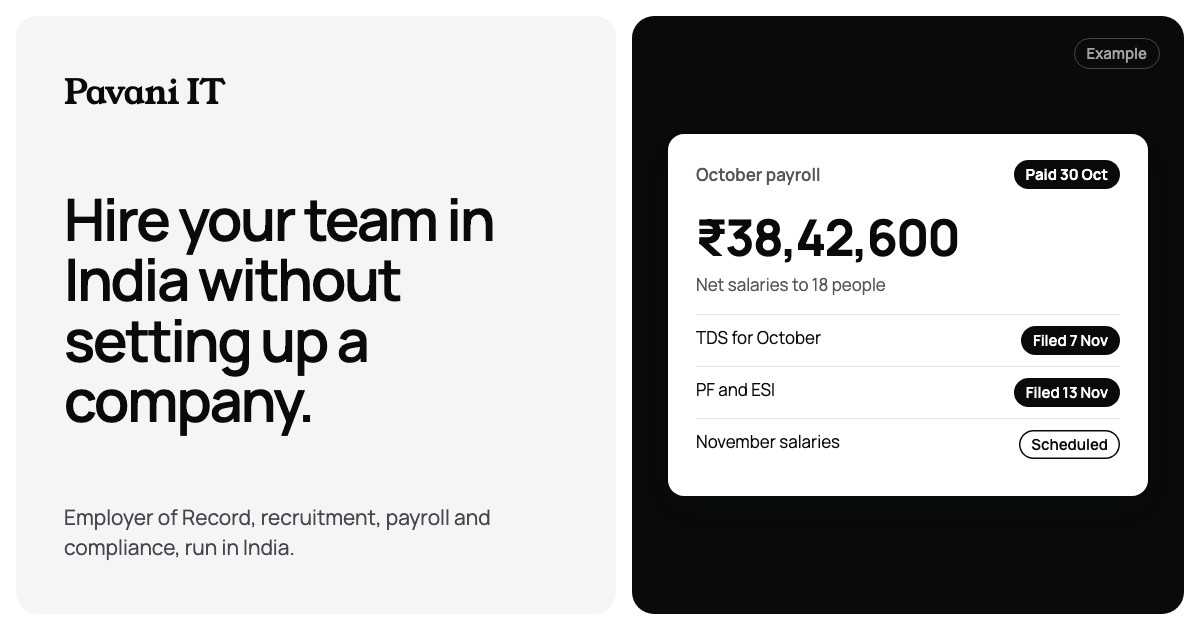
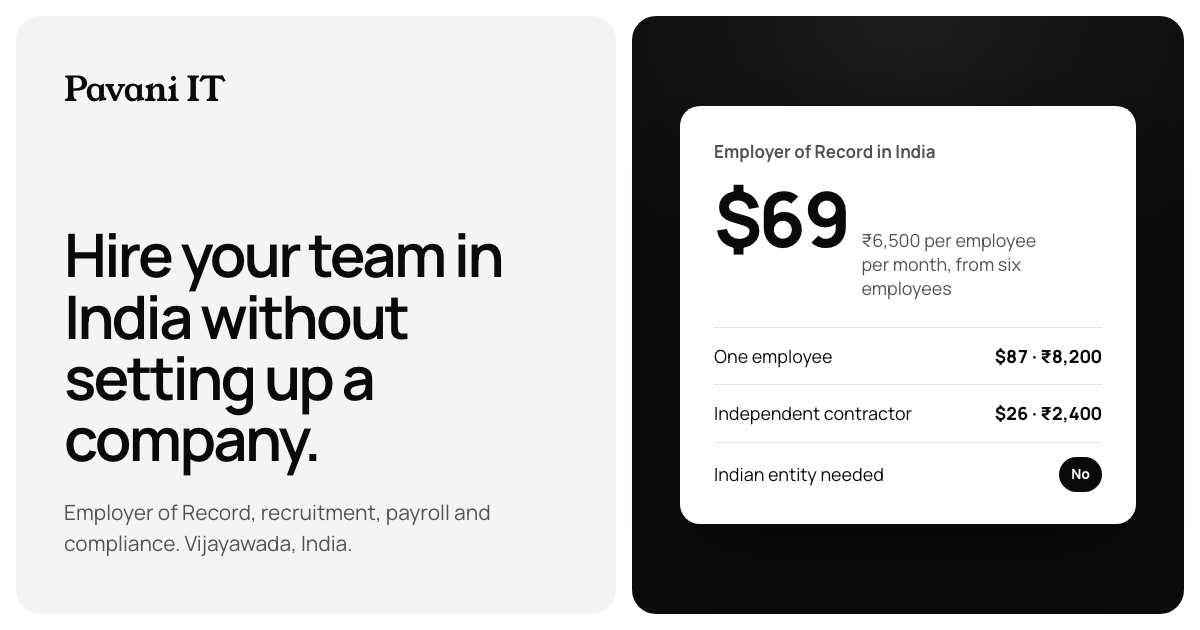
Launch round: link-preview image on every page, real-price sharing image, tighter descriptions

diff --git a/src/app/page.tsx b/src/app/page.tsx
@@ -8,18 +8,18 @@ import PriceCard from "@/components/PriceCard";
 import { ComparisonTable } from "@/components/EorTables";
 import { ArrowText, CtaBand, FaqSection, JsonLd, MoreLink, V, Words } from "@/components/bits";
 import { faqSchema } from "@/content/schema";
-import { eorPlanCards, eorPlans, howWeWork } from "@/content/site";
+import { eorPlanCards, eorPlans, howWeWork, ogImage } from "@/content/site";
 import { handoff, homeFaq, stageLinkLabel, stages } from "@/content/stages";
 
 export const metadata: Metadata = {
   title: "Employer of Record in India | Pavani IT",
-  description:
-    "Hire full-time employees in India without an Indian entity. Pavani IT recruits, employs, pays and trains your team under Indian law, with payroll and compliance run in-house.",
+  description: `Hire full-time employees in India without an Indian entity. Pavani IT is your Employer of Record from ${eorPlans[1].usd} a month, with payroll and compliance included.`,
   alternates: { canonical: "/" },
   openGraph: {
     title: "Hire your team in India without setting up a company",
     description: "Pavani IT is an Indian Employer of Record: contracts, payroll, PF, ESI, tax and exits handled under Indian law.",
     url: "/",
+    images: [ogImage],
   },
 };
 

diff --git a/src/content/schema.ts b/src/content/schema.ts
@@ -7,16 +7,16 @@ export const abs = (path: string) => new URL(path, site.url).toString();
 
 export function organizationSchema() {
   const sameAs = [real(site.linkedin)].filter(Boolean);
-  const address =
-    real(site.address) && real(site.city)
-      ? {
-          "@type": "PostalAddress",
-          streetAddress: site.address,
-          addressLocality: site.city,
-          addressRegion: real(site.state),
-          addressCountry: "IN",
-        }
-      : undefined;
+  // City and state are enough for a valid address; the street joins once it's set.
+  const address = real(site.city)
+    ? {
+        "@type": "PostalAddress",
+        ...(real(site.address) ? { streetAddress: site.address } : {}),
+        addressLocality: site.city,
+        addressRegion: real(site.state),
+        addressCountry: "IN",
+      }
+    : undefined;
   return {
     "@context": "https://schema.org",
     "@type": "Organization",

diff --git a/src/content/site.ts b/src/content/site.ts
@@ -37,6 +37,15 @@ export const site = {
   web3formsKey: "",
 } as const;
 
+/** The sharing image (link previews on LinkedIn, WhatsApp, Slack). Every page's openGraph must include it,
+    because a page that sets its own openGraph replaces the layout's, image included. */
+export const ogImage = {
+  url: "/og-image.png",
+  width: 1200,
+  height: 630,
+  alt: "Pavani IT: Employer of Record in India from $69 per employee per month, no Indian entity needed",
+};
+
 /** Why the fees are low, said plainly: AI does the routine work, people do the rest. */
 export const howWeWork =
   "AI handles the routine work, such as calculations, reminders and paperwork, and our people handle the rest and talk to you. That is why our fees are a fraction of the usual.";

diff --git a/src/app/pricing/page.tsx b/src/app/pricing/page.tsx
@@ -7,7 +7,7 @@ import { eorCovered, eorExample, eorNotes, eorPlanCards, eorPlans, howWeWork, in
 
 export const metadata: Metadata = {
   title: `Pricing: Employer of Record in India from ${eorPlans[1].usd} a month | Pavani IT`,
-  description: `Employer of Record in India: ${eorPlans[0].usd} (${eorPlans[0].inr}) per employee per month, ${eorPlans[1].usd} from six employees, ${eorPlans[2].usd} per contractor. See a full monthly cost example and what the fee covers.`,
+  description: `Employer of Record in India: ${eorPlans[0].usd} (${eorPlans[0].inr}) per employee per month, ${eorPlans[1].usd} from six employees, ${eorPlans[2].usd} per contractor, plus every other service's fee and a worked monthly cost.`,
   alternates: { canonical: "/pricing/" },
 };
 

diff --git a/src/app/employer-of-record-india/page.tsx b/src/app/employer-of-record-india/page.tsx
@@ -4,6 +4,7 @@ import { ComparisonTable, DutiesTable } from "@/components/EorTables";
 import PriceCard from "@/components/PriceCard";
 import { MoreLink } from "@/components/bits";
 import { eorPlanCards } from "@/content/site";
+import { ogImage } from "@/content/site";
 import { stageById } from "@/content/stages";
 
 const stage = stageById("employ");
@@ -12,7 +13,7 @@ export const metadata: Metadata = {
   title: stage.metaTitle,
   description: stage.metaDescription,
   alternates: { canonical: stage.href },
-  openGraph: { title: stage.title, description: stage.metaDescription, url: stage.href },
+  openGraph: { title: stage.title, description: stage.metaDescription, url: stage.href, images: [ogImage] },
 };
 
 export default function Page() {

diff --git a/src/app/layout.tsx b/src/app/layout.tsx
@@ -5,7 +5,7 @@ import Header from "@/components/Header";
 import Reveals from "@/components/Reveals";
 import { JsonLd } from "@/components/bits";
 import { organizationSchema, websiteSchema } from "@/content/schema";
-import { site } from "@/content/site";
+import { ogImage, site } from "@/content/site";
 import "./tokens.css";
 import "./globals.css";
 
@@ -45,7 +45,7 @@ export const metadata: Metadata = {
     type: "website",
     siteName: site.name,
     locale: "en_IN",
-    images: [{ url: "/og-image.png", width: 1200, height: 630, alt: "Pavani IT: hire your team in India without an Indian entity" }],
+    images: [ogImage],
   },
   twitter: { card: "summary_large_image" },
 };

diff --git a/src/app/payroll-compliance-india/page.tsx b/src/app/payroll-compliance-india/page.tsx
@@ -1,6 +1,7 @@
 import type { Metadata } from "next";
 import MonthCycle from "@/components/MonthCycle";
 import StagePage from "@/components/StagePage";
+import { ogImage } from "@/content/site";
 import { stageById } from "@/content/stages";
 
 const stage = stageById("pay");
@@ -9,7 +10,7 @@ export const metadata: Metadata = {
   title: stage.metaTitle,
   description: stage.metaDescription,
   alternates: { canonical: stage.href },
-  openGraph: { title: stage.title, description: stage.metaDescription, url: stage.href },
+  openGraph: { title: stage.title, description: stage.metaDescription, url: stage.href, images: [ogImage] },
 };
 
 export default function Page() {

diff --git a/src/app/corporate-training-india/page.tsx b/src/app/corporate-training-india/page.tsx
@@ -1,5 +1,6 @@
 import type { Metadata } from "next";
 import StagePage from "@/components/StagePage";
+import { ogImage } from "@/content/site";
 import { stageById } from "@/content/stages";
 
 const stage = stageById("grow");
@@ -8,7 +9,7 @@ export const metadata: Metadata = {
   title: stage.metaTitle,
   description: stage.metaDescription,
   alternates: { canonical: stage.href },
-  openGraph: { title: stage.title, description: stage.metaDescription, url: stage.href },
+  openGraph: { title: stage.title, description: stage.metaDescription, url: stage.href, images: [ogImage] },
 };
 
 export default function Page() {

diff --git a/src/app/recruitment-staffing-india/page.tsx b/src/app/recruitment-staffing-india/page.tsx
@@ -1,5 +1,6 @@
 import type { Metadata } from "next";
 import StagePage from "@/components/StagePage";
+import { ogImage } from "@/content/site";
 import { stageById } from "@/content/stages";
 
 const stage = stageById("hire");
@@ -8,7 +9,7 @@ export const metadata: Metadata = {
   title: stage.metaTitle,
   description: stage.metaDescription,
   alternates: { canonical: stage.href },
-  openGraph: { title: stage.title, description: stage.metaDescription, url: stage.href },
+  openGraph: { title: stage.title, description: stage.metaDescription, url: stage.href, images: [ogImage] },
 };
 
 const steps = [

diff --git a/src/app/sitemap.ts b/src/app/sitemap.ts
@@ -5,7 +5,7 @@ import { stages } from "@/content/stages";
 export const dynamic = "force-static";
 
 // Update when a page's content really changes; search engines trust honest lastmod dates.
-const UPDATED = "2026-11-15";
+const UPDATED = "2026-11-16";
 
 export default function sitemap(): MetadataRoute.Sitemap {
   const paths = ["/", ...stages.map((s) => s.href), "/pricing/", "/glossary/", "/about/", "/contact/", "/privacy/"];

diff --git a/docs/decisions.md b/docs/decisions.md
@@ -62,6 +62,7 @@ Settled on 16 November 2026 (launch loop, round 3). Each is a conservative call;
 
 ## Log
 
+- **Search and sharing** (launch loop). The home page and the four service pages had no link-preview image, because a page that sets its own sharing title replaces the site-wide image; every page now has it. The sharing image itself showed an "Example" payroll card with made-up figures (₹38,42,600 to 18 people); it now shows real prices: EOR from $69 (₹6,500), $87 (₹8,200) for one employee, $26 (₹2,400) per contractor, no Indian entity needed. The home description is shorter (under 160 characters) and leads with the price; the pricing description too. Structured data for the company now includes Vijayawada, Andhra Pradesh (the street joins once set). Sitemap dated 16 November 2026. Checked: one canonical URL per page, robots allows everything and points to the sitemap, all structured data parses.
 - **Header, menus and footer** (launch loop). Keyboard users who opened Services with Enter then had to tab through the rest of the header before reaching the services, because the menu came after the header row in the page order. It now sits right after its button, so Tab goes Services, Hire, Employ, Pay, Grow, HR advisory, then Pricing (it looks the same). The phone menu no longer repeats "Book a call" at the bottom; the header button stays in view. Checked: Escape and outside clicks close both menus and focus returns to the button; the phone menu locks page scroll and closes after a link; all 17 footer links resolve.
 - **Contract staffing minimum back to $87 (₹8,200) per person per month** (your decision). Contract staff are employed by Pavani IT with the same employer duties as Employer of Record, so the minimum matches the EOR fee. The rate stays 8% of monthly CTC.
 - **Payroll and compliance restored to $5 (₹500) per employee per month, minimum $53 (₹5,000)** (your correction). The 35% cut shouldn't have applied here: compliance carries the legal liability for late or wrong filings, per-state registrations and returns, and professional sign-off, which AI doesn't remove. ₹500 is the full-compliance rate from the research. The price now also says government fees and statutory dues are paid at cost, on top. The other services keep the lower prices.

diff --git a/docs/launch-checklist.md b/docs/launch-checklist.md
@@ -28,7 +28,7 @@ Work top to bottom, one item per round. For each item: review it at 1440px and 3
 - [x] **AI-run positioning and lower prices** (your answers): one plain line on AI plus people where fees are explained; other services about 35% below market; AI providers in the privacy notice.
 - [x] **404 page review.**
 - [x] **Header, menus and footer review** on every width: services menu, mobile menu, focus order, Escape, links.
-- [ ] **Search and sharing**: titles and descriptions per page, canonical URLs, sitemap, robots, structured data validity, Open Graph image (no outdated prices or currency), favicon set.
+- [x] **Search and sharing**: titles and descriptions per page, canonical URLs, sitemap, robots, structured data validity, Open Graph image (no outdated prices or currency), favicon set.
 - [ ] **Accessibility audit**: automated scan of every page plus keyboard pass; fix every finding.
 - [ ] **Performance**: image weights, fonts, unused CSS or JS, load metrics on phone.
 - [ ] **Final check**: all pages at 375, 768, 1440 and 1920px; no placeholders, console errors, broken links or sideways scroll. Write a short launch summary at the top of `docs/decisions.md` listing what Pavani IT still needs to supply and the hosting steps. Then stop the loop.
@@ -51,3 +51,4 @@ Work top to bottom, one item per round. For each item: review it at 1440px and 3
 - AI-run positioning: line on home prices, pricing intro, About, a new FAQ and llms.txt; human-team overstatements reworded; prices lowered (5%, 8% with ₹6,500 minimum, ₹300 with ₹3,000 minimum, ₹40,000 a day, ₹1,00,000 per graduate); privacy notice lists AI providers. 1440 and 390px.
 - 404 page: own title, one noindex tag, direct links to the four stages and pricing. 1440 and 390px.
 - Header, menus and footer: services menu moved after its button so Tab enters it; duplicate phone-menu button removed; Escape, outside click, scroll lock, focus return and footer links checked at 1440 and 390px.
+- Search and sharing: link-preview image on every page; new sharing image with real prices (no invented example); home and pricing descriptions trimmed; company address in structured data; sitemap dated 16 November 2026.
